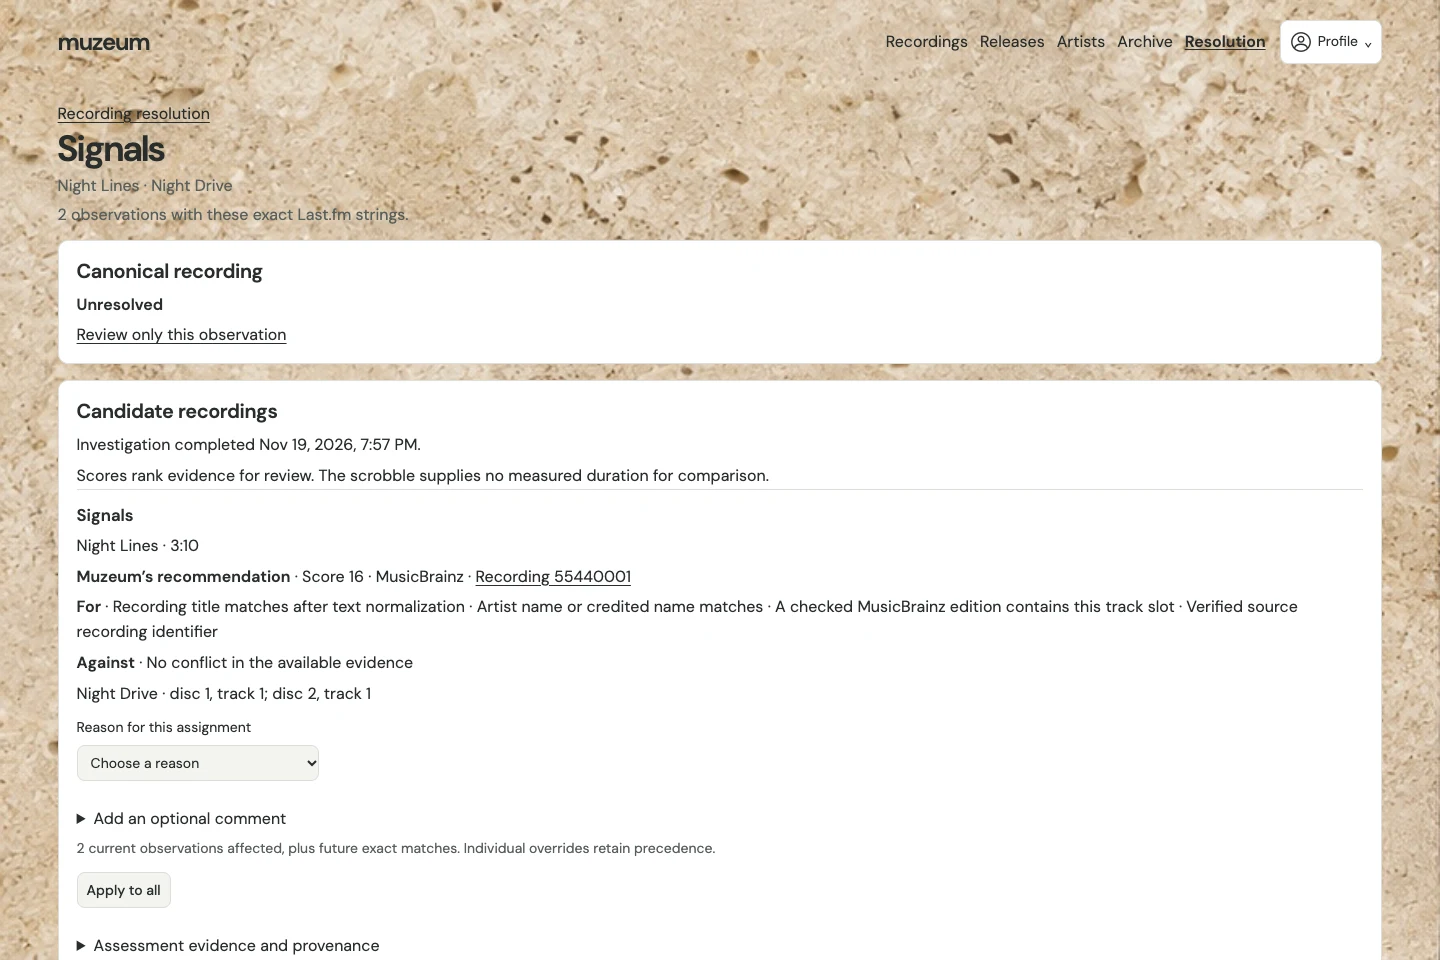
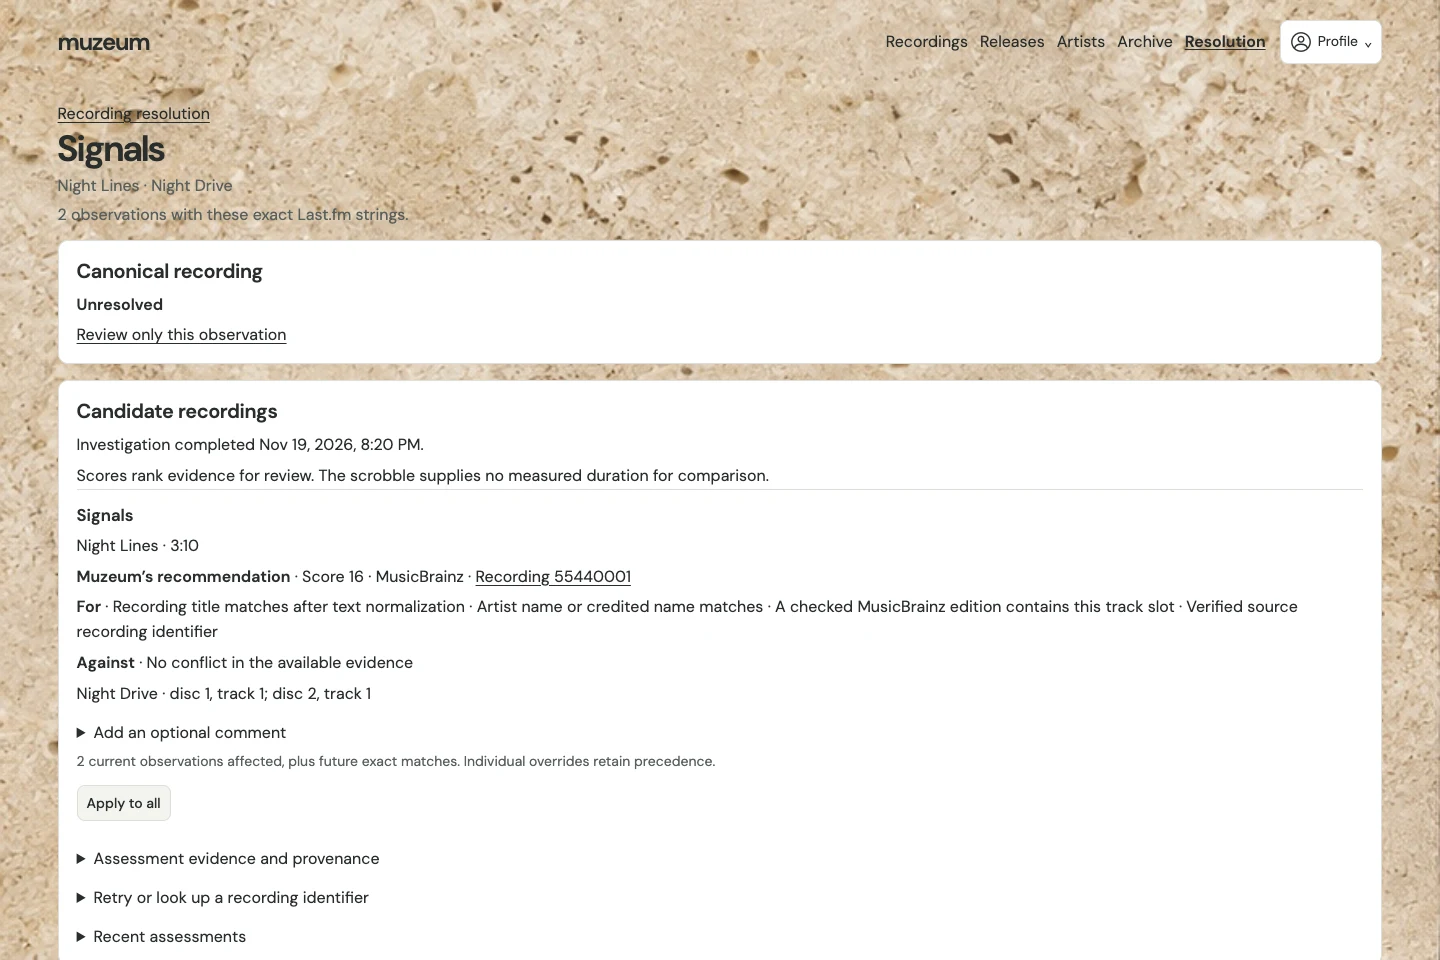
Record P1.5.1 confirmations without a required reason

Changed region(s): [[0.0312, 0.75, 0.5, 0.9375], [0.0625, 0.9688, 0.25, 1.0], [0.25, 0.4375, 0.3125, 0.4688]]

diff --git a/spec/requests/canonical_workspace_spec.rb b/spec/requests/canonical_workspace_spec.rb
@@ -68,15 +68,17 @@ RSpec.describe "Canonical library and resolution workspace", type: :request do
     expect { post decide_resolution_surface_path(example), params: choice }.not_to change(RecordingResolution::Decision, :count)
     expect(flash[:alert]).to include("changed")
 
-    post decide_resolution_surface_path(example), params: { scope: "scrobble", play_id: second.id, mode: "unresolved", reason: "Unclear version" }
+    post decide_resolution_surface_path(example), params: { scope: "scrobble", play_id: second.id, mode: "unresolved" }
     head = RecordingResolution::Decision.last
-    expect(head.scrobble_id).to eq(second.id)
+    expect(head).to have_attributes(scrobble_id: second.id, reason: "Left unresolved",
+      evidence: a_hash_including("reason_code" => "left_unresolved"))
     get resolution_surfaces_path(filter: "exceptions")
     expect(response.body).to include("Signals")
     expect(RecordingResolution::Ledger.effective(user).find(second.id).effective_recording_id).to be_nil
     get resolution_surface_path(example, play: second.id)
     expect(response.body).to include("Only this time", "Return to inheritance")
-    post decide_resolution_surface_path(example), params: { scope: "scrobble", play_id: second.id, mode: "inherit", reason: "Same version", head: head.id }
+    post decide_resolution_surface_path(example), params: { scope: "scrobble", play_id: second.id, mode: "inherit", head: head.id }
+    expect(RecordingResolution::Decision.last.evidence.fetch("reason_code")).to eq("restore_inheritance")
     later = catalog_observation(user, time: 1.day.from_now)
     expect(RecordingResolution::Ledger.effective(user).find(later.id).effective_recording_id).to eq(Recording.find_by!(mbid:).id)
     expect(RecordingResolution::Ledger.effective(user).find(second.id).effective_recording_id).to eq(Recording.find_by!(mbid:).id)
@@ -114,12 +116,14 @@ RSpec.describe "Canonical library and resolution workspace", type: :request do
     assessment = RecordingResolution::Ledger.assessments(user).sole
     post decide_resolution_surface_path(second), params: { mode: "resolved", scope: "surface",
       recording_mbid: CatalogFixtures::IDS[:studio], assessment_id: assessment.id,
-      reason_code: "verified_identifier", comment: "Checked the studio version" }
+      comment: "Checked the studio version" }
     decision = RecordingResolution::Decision.sole
-    expect(decision.evidence).to include("reason_code" => "verified_identifier", "comment" => "Checked the studio version",
+    expect(decision).to have_attributes(reason: "Confirmed candidate", assessment_id: assessment.id, actor: "listener", user_id: user.id)
+    expect(decision.evidence).to include("reason_code" => "confirmed_candidate", "comment" => "Checked the studio version",
       "scoring_version" => RecordingResolution::Ranking::VERSION, "affected_scope" => "surface")
     get resolution_surface_path(second)
     expect(response.body).to include("Inherited from your exact-surface assignment", "Checked the studio version")
+    expect(decision.evidence.fetch("candidate_scores").first.fetch("recording_mbid")).to eq(CatalogFixtures::IDS[:studio])
     expect(Scrobble.find(observation.id).payload).to eq(observation.payload)
   end
 

diff --git a/app/controllers/resolution_workspace_controller.rb b/app/controllers/resolution_workspace_controller.rb
@@ -89,8 +89,10 @@ class ResolutionWorkspaceController < ApplicationController
     options = RecordingResolution::DecisionReasons::OPTIONS.fetch(mode)
     code = params[:reason_code].to_s.presence
     comment = params[:comment].to_s.strip.presence
-    reason = code ? options.fetch(code) { raise ArgumentError } : params[:reason].to_s.strip.presence
-    raise ArgumentError if reason.blank? || reason.length > 500 || comment.to_s.length > 500
+    legacy_reason = params[:reason].to_s.strip.presence
+    code ||= RecordingResolution::DecisionReasons::DEFAULTS.fetch(mode) unless legacy_reason
+    reason = code ? options.fetch(code) { raise ArgumentError } : legacy_reason
+    raise ArgumentError if reason.length > 500 || comment.to_s.length > 500
 
     target = scope == :scrobble ? @workspace.matching(@observation).find(params[:play_id]) : @observation
     surface = @workspace.surface(@observation)
@@ -125,7 +127,7 @@ class ResolutionWorkspaceController < ApplicationController
   rescue ActiveRecord::StaleObjectError
     redirect_to resolution_surface_path(@observation), alert: "This assignment changed. Review the current decision and submit again.", status: :see_other
   rescue ArgumentError, CanonicalCatalog::Store::Unverified
-    redirect_to resolution_surface_path(@observation), alert: "Choose a candidate, scope, and applicable reason. Comments are limited to 500 characters.", status: :see_other
+    redirect_to resolution_surface_path(@observation), alert: "Check the candidate and scope. Optional comments are limited to 500 characters.", status: :see_other
   end
 
   def defer

diff --git a/spec/system/canonical_library_spec.rb b/spec/system/canonical_library_spec.rb
@@ -23,11 +23,10 @@ RSpec.describe "Canonical library resolution workflow", type: :system do
     click_link "Signals"
     expect(page).to have_text("A checked MusicBrainz edition contains this track slot")
     within(".candidate", text: "Signals") do
-      select "Corroborating catalog evidence", from: "Reason for this assignment"
       find_button("Apply to all").send_keys(:enter)
     end
     expect(page).to have_text("Recording decision saved.")
-    expect(page).to have_text("Corroborating catalog evidence")
+    expect(page).to have_text("Confirmed candidate")
 
     request = CatalogImport.find_by!(kind: "recording")
     expect(request.state).to eq("pending")
@@ -108,7 +107,6 @@ RSpec.describe "Canonical library resolution workflow", type: :system do
 
     visit resolution_surface_path(observation, assessment: assessment.id)
     within(".candidate", text: "Signals") do
-      select "Verified recording identifier", from: "Reason for this assignment"
       find_button("Apply to all").send_keys(:enter)
     end
     expect(page).to have_text("Inherited from your exact-surface assignment")

diff --git a/app/services/recording_resolution/decision_reasons.rb b/app/services/recording_resolution/decision_reasons.rb
@@ -1,13 +1,21 @@
 module RecordingResolution
   module DecisionReasons
+    DEFAULTS = {
+      "resolved" => "confirmed_candidate",
+      "unresolved" => "left_unresolved",
+      "inherit" => "restore_inheritance"
+    }.freeze
+
     OPTIONS = {
       "resolved" => {
+        "confirmed_candidate" => "Confirmed candidate",
         "verified_identifier" => "Verified recording identifier",
         "corroborating_evidence" => "Corroborating catalog evidence",
         "personally_verified" => "I verified the recording",
         "correction" => "Correct a previous assignment"
       }.freeze,
       "unresolved" => {
+        "left_unresolved" => "Left unresolved",
         "insufficient_evidence" => "Insufficient evidence",
         "multiple_candidates" => "Multiple plausible candidates",
         "inaccurate_claims" => "Inaccurate source claims"

diff --git a/docs/p1.5.1/resolution.md b/docs/p1.5.1/resolution.md
@@ -24,7 +24,7 @@ Observation `292992` had one exact match, source artist and track MBID claims, n
 
 Use the existing exact-surface ledger for assignment scope. Reuse a completed assessment only for the same exact surface and source ID claims. Local identity lookup and cached MusicBrainz search can discover candidates across repeated textual claims. Edition evidence and scoring must use the particular observation context. Leave broader normalized-group reuse open until versions and compatibility can be reviewed.
 
-Record deterministic ranking inputs and explanations in existing assessment JSONB, with the scoring version and assessment time. Use an ordinal point score for relative ordering. Verified claimed identifiers and checked edition slots are stronger signals than title or credit text. Version and identifier contradictions lower rank. Missing signals add no points and remain visible. Exact text can establish a candidate for review. Acceptance requires a listener decision or later independently approved policy. Use existing decision JSONB for structured rationale and candidate evidence references. No schema migration is planned for this revision.
+Record deterministic ranking inputs and explanations in existing assessment JSONB, with the scoring version and assessment time. Use an ordinal point score for relative ordering. Verified claimed identifiers and checked edition slots are stronger signals than title or credit text. Version and identifier contradictions lower rank. Missing signals add no points and remain visible. Exact text can establish a candidate for review. Acceptance requires a listener decision or later independently approved policy. Confirming a candidate records the action automatically. Optional comments and historical reasons remain readable. Decision JSONB retains the structured action code, the previous assignment, scope, candidate scores and evidence references. No schema migration is planned for this revision.
 
 Run new investigation through the bounded catalog assessment lease, request cache, and MusicBrainz budget. Schedule only authorized observation reviews. End the request independently of provider work. Reuse completed results and refresh deliberately. New production automatic investigation requires separate activation. Shadow evaluation may compare ranked candidates with reviewed assignments without writing effective assignments.
 
